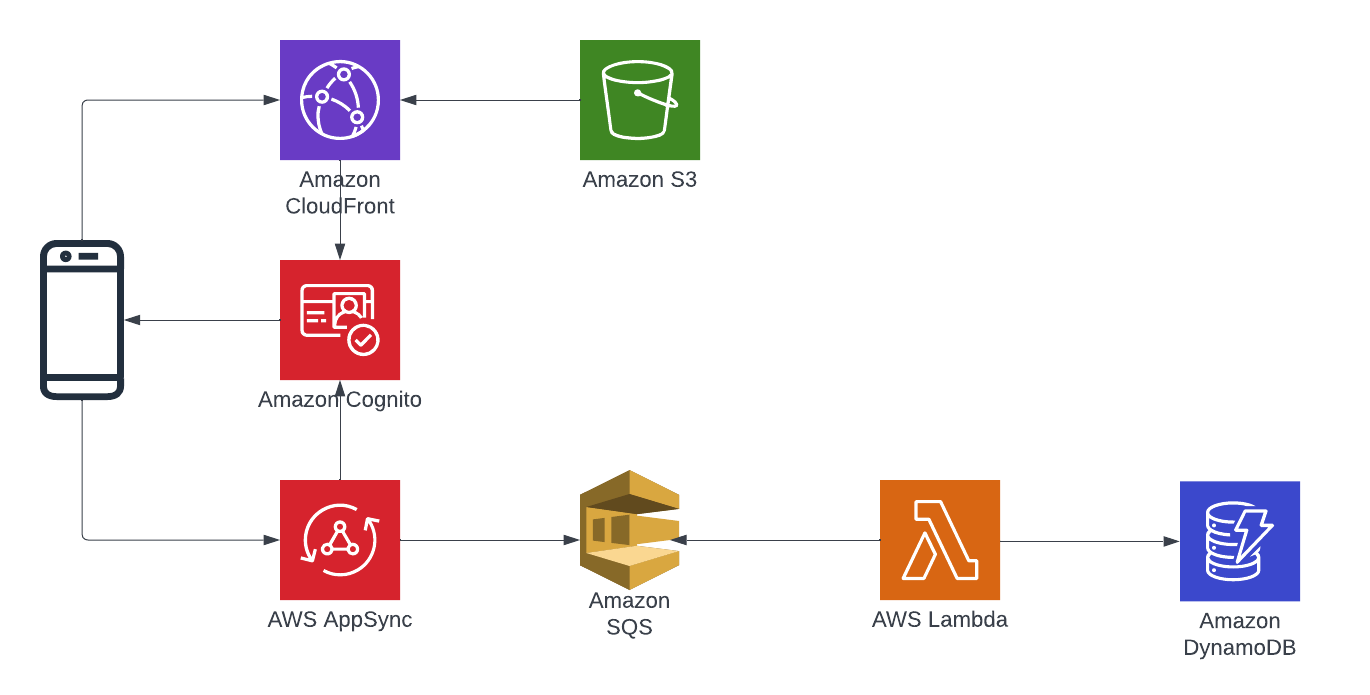
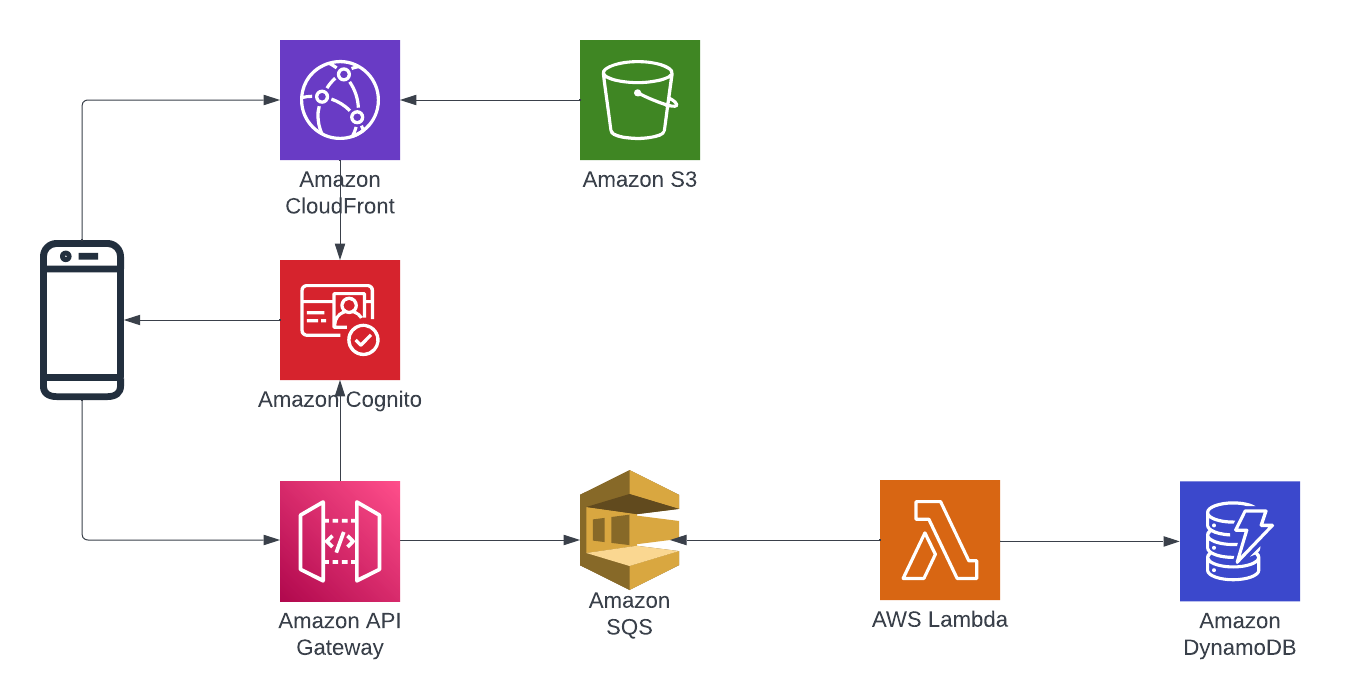
small fixes and updates

Changed region(s): [[0.1839, 0.6647, 0.3066, 0.9669]]

diff --git a/week01/discussions/SamWilliams.md b/week01/discussions/SamWilliams.md
@@ -1,25 +1,25 @@
 # Sam Williams
 
-Static front end with login using Cognito
-simple API gateway with a vote endpoint
+Static front end with login using Cognito.
+Simple API gateway with a vote endpoint.
 
-Dynamo table with a record of votes. Schema something like
+DynamoDB table with a record of votes. Schema something like
 
 PK: ideaId  
 sk: userId (from cognito)  
 .... other fields if needed
 
-lambda API checks if that record exists (idea && user) if not, then create record and tell the they voted, else tell them they already voted. All synchronous for now to keep it simple.
+Lambda API checks if that record exists (idea && user) if not, then create record and tell the they voted, else tell them they already voted. All synchronous for now to keep it simple.
 
-API to query on ideaId to get the total votes for an idea
+API to query on ideaId to get the total votes for an idea.
 
 ## Timothy Doolan
 
-I would support this with only one addition. Leading keys Iam policy for the sort key. That way users can only amend their vote.. so small change needed to signup. We create record in dynamodb with no voting intention. Custom lambda attached to cognito. Then subsequent write api calls to db must be for the authorised user. Naturally the vote checker must now check for a value not just a record. We can do this with a query.
+I would support this with only one addition. Leading keys IAM policy for the sort key. That way users can only amend their vote.. so small change needed to signup. We create record in DynamoDB with no voting intention. Custom Lambda attached to Cognito. Then subsequent write api calls to db must be for the authorised user. Naturally the vote checker must now check for a value not just a record. We can do this with a query.
 
 [Link to docs](https://docs.aws.amazon.com/amazondynamodb/latest/developerguide/specifying-conditions.html)
 
-And to improved dynamo workload. Mabey the table name is the idea. Multiple ideas = multiple tables. Primary key is cognito user is that gives high cardinality and inproves sharding ect. No hot partitions. Then sort key is intent. If we had multiple choices in voting intention. Sort key would then be the easiest way to query the results per table (idea). “Speed greasy speed” as mickey would say ;-).
+And to improved DynamoDB workload. Mabey the table name is the idea. Multiple ideas = multiple tables. Primary key is Cognito user is that gives high cardinality and inproves sharding ect. No hot partitions. Then sort key is intent. If we had multiple choices in voting intention. Sort key would then be the easiest way to query the results per table (idea). “Speed greasy speed” as mickey would say ;-).
 
 ## Sam Williams
 
@@ -42,3 +42,7 @@ If you went with pk = userId, sk = vote intent, what stops a user from voting tw
 
 Also if there was a table for each idea, there would be no way to get "all votes for a user" without querying every table.
 With a single table design you just have a GSI with userId and ideaId switched and then you can get all votes for a user.
+
+## Timothy Doolan
+
+Yep, you're right, all valid concerns. Hence I copped out with a “Mabey” ha ha. It was a cheap attempt to release the primary key to be more performant. Querying for large volumes of data in one table will hurt at scale.. would be worth modelling in a real world scenario.

diff --git a/README.md b/README.md
@@ -14,8 +14,8 @@ I publish some requirements for solution which is later discussed by group of Ex
 
 This is the original message published on LinkedIn
 
->We hear a lot about Serverless. It becomes more and more popular. There are some who even claims that everything is possible with Serverless :) So, I propose a game :) Every week (if there will be interest, of course) I will publish one requirement or I will reveal one of the elements of the puzzle. It will be a game or challenge for you, but also for me, to ensure the proper level of cool and fun of this game :)  
-Let me explain the rules a little. We go to the quest to build serverless application. Your task (our task:) ) is to discuss the options, solutions, limitations and advantages. I'd to limit our discussion to AWS only, however everyone is welcome - developers, devops, architects, etc with any experience!  
+>We hear a lot about Serverless. It becomes more and more popular. There are some who even claims that everything is possible with Serverless :) So, I propose a game :) Every week (if there will be interest, of course) I will publish one requirement or I will reveal one of the elements of the puzzle. It will be a game or challenge for you, but also for me, to ensure the proper level of cool and fun of this game :smile:  
+Let me explain the rules a little. We go to the quest to build serverless application. Your task (our task:smile:) is to discuss the options, solutions, limitations and advantages. I'd to limit our discussion to AWS only, however everyone is welcome - developers, devops, architects, etc with any experience!  
 Important is, that I want to keep the game simple. What is revealed, is in scope. To give you a picture - if I didn't ask for black button, you are free to have any kind of button you want. If I didn't say that I want synchronous communication - the solution is up to you.  
 My goal is to navigate you to hit the rocks. Think of me like about the Game Master (from RPG games).
 

diff --git a/week01/discussions/VakhtangKoroghlishvili.md b/week01/discussions/VakhtangKoroghlishvili.md
@@ -1,3 +1,3 @@
 # Vakhtang Koroghlishvili
 
-This is a great idea! I think the architecture decision will be based on the data volume and what type of aggregation operations are we going to use on the real-time data. One option would be to use AWS Elastic Cache for the user activity (who voted already). CloudFront/S3 for front-end and Cognito for user pool. Batch updates into - DybamoDB via SQS and Lambda (if we are under the quota limits). If we need advanced aggregation operations like real-time vote statistics based on state/city/sex/age - you may need to change the architecture completely to use the Kinesis family and AWS EMR etc.
+I think the architecture decision will be based on the data volume and what type of aggregation operations are we going to use on the real-time data. One option would be to use AWS Elastic Cache for the user activity (who voted already). CloudFront/S3 for front-end and Cognito for user pool. Batch updates into - DynamoDB via SQS and Lambda (if we are under the quota limits). If we need advanced aggregation operations like real-time vote statistics based on state/city/sex/age - you may need to change the architecture completely to use the Kinesis family and AWS EMR etc.

diff --git a/week01/README.md b/week01/README.md
@@ -32,6 +32,23 @@ Here are the threads, started by:
 
 You find all diagrams in *architecture* directory. It contains all diagrams created by Authors or me.
 
+## :hammer: Services
+
+This list contains **all** services mentioned by Authors.
+
+* Cognito
+* S3 bucket
+* CloudFront
+* Lambda
+* Step Functions
+* Appsync
+* API Gateway
+* DynamoDB
+* SQS
+* SNS
+* Route53
+* ElastiCache
+
 ## :bulb: Mindmap
 
 ![Mindmap for week 1](assets/week1-map.png)
@@ -42,8 +59,8 @@ A little statistics about the thread. The data here is updated around the moment
 
 | Key                             | Value |
 | :------------------------------ | :---- |
-| Reactions                       | 37    |
-| Impressions                     | 7741  |
+| Reactions                       | 38    |
+| Impressions                     | 7821  |
 | Comments (excluding my own :) ) | 22    |
 | Reposts                         | 3     |
 | Engaged                         | 11    |

diff --git a/week01/discussions/DharmendraNegi.md b/week01/discussions/DharmendraNegi.md
@@ -1,12 +1,12 @@
 # Dharmendra Negi
 
 Totally Agree with [Sam](SamWilliams.md).  
-Only instead of API gateway, I would like to use Appsync for better real time experience.
+Only instead of API Gateway, I would like to use Appsync for better real time experience.
 
 ## Sam Williams
 
-How would the user experience differ between appsync and api gateway for a single request?
+How would the user experience differ between Appsync and API Gateway for a single request?
 
 # Dharmendra Negi
 
-Sorry for not making it clear, I mean apart from above mentioned requirements. If we want to show the percentage/count of vote at real time, we can use appsync subscription.
+Sorry for not making it clear, I mean apart from above mentioned requirements. If we want to show the percentage/count of vote at real time, we can use Appsync subscription.

diff --git a/week01/discussions/PawelZubkiewicz.md b/week01/discussions/PawelZubkiewicz.md
@@ -1,6 +1,6 @@
 # Pawel Zubkiewicz
 
-A voting app needs to scale (I'm thinking about millions of users, perhaps at the same time?). Obviously, SPA hosted on S3+CloudFront and AuthN/AuthZ provided by Cognito. That's the easy part.
+A voting app needs to scale (I'm thinking about millions of users, perhaps at the same time?). Obviously, SPA hosted on S3 + CloudFront and AuthN/AuthZ provided by Cognito. That's the easy part.
 
 To make backed handle any kind of traffic, I'd use Storage First pattern: API Gateway directly integrated with SQS queue (without Lambda function in the middle).
 

diff --git a/week01/discussions/MuhammadNawazAnjum.md b/week01/discussions/MuhammadNawazAnjum.md
@@ -2,6 +2,6 @@
 
 I can go with the following:
 
-Login with OTP (phone number) - validate phone for unique voting  
-S3 static hosting with cloudfront and route53  
-Lambda functions for serverless and API gateway  (Muhammad Nawaz Anjum)
+Login with OTP (phone number) - validate phone for unique voting.  
+S3 static hosting with Cloudfront and Route53.  
+Lambda functions for serverless and API Gateway. (Muhammad Nawaz Anjum)

diff --git a/week01/discussions/AngushAgrawal.md b/week01/discussions/AngushAgrawal.md
@@ -1,3 +1,3 @@
 # Angush Agrawal
 
-USe APi gateway which will trigger lambda function to vote and in return use lambda function , SNS for the notification.
+Use API Gateway which will trigger lambda function to vote and in return use lambda function, SNS for the notification.
